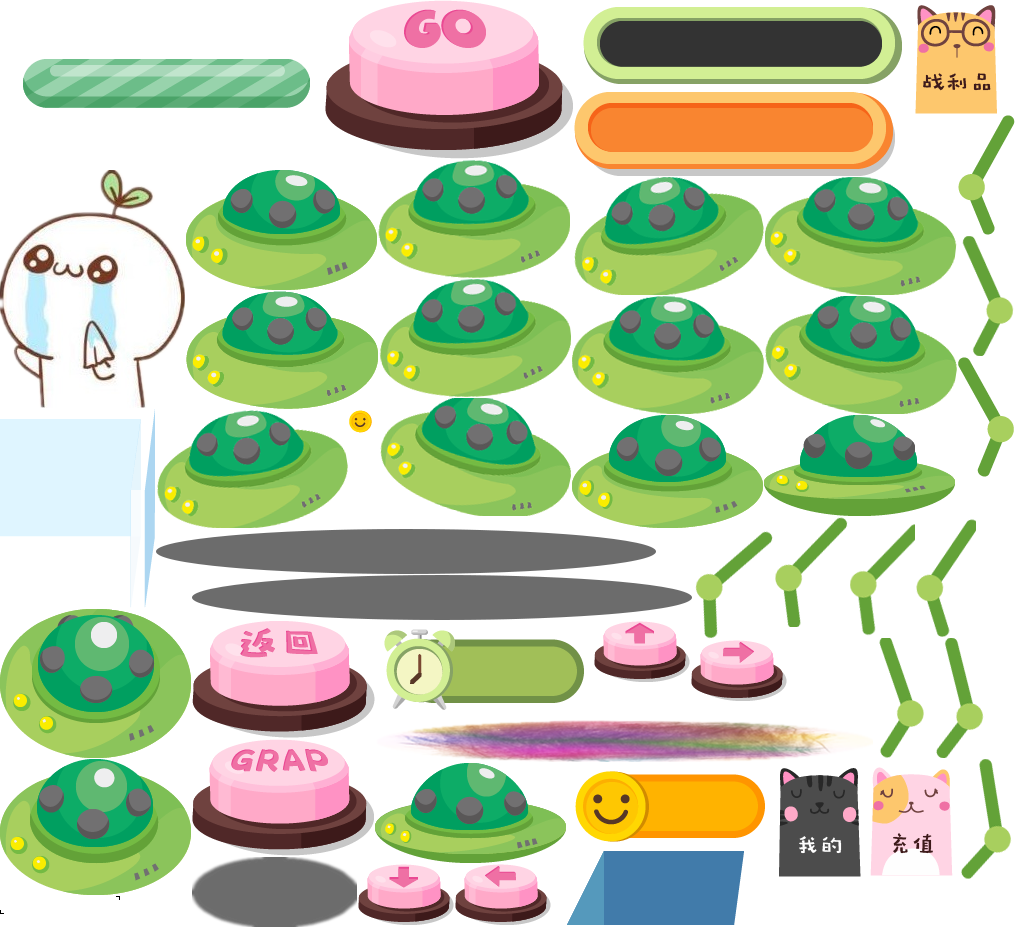
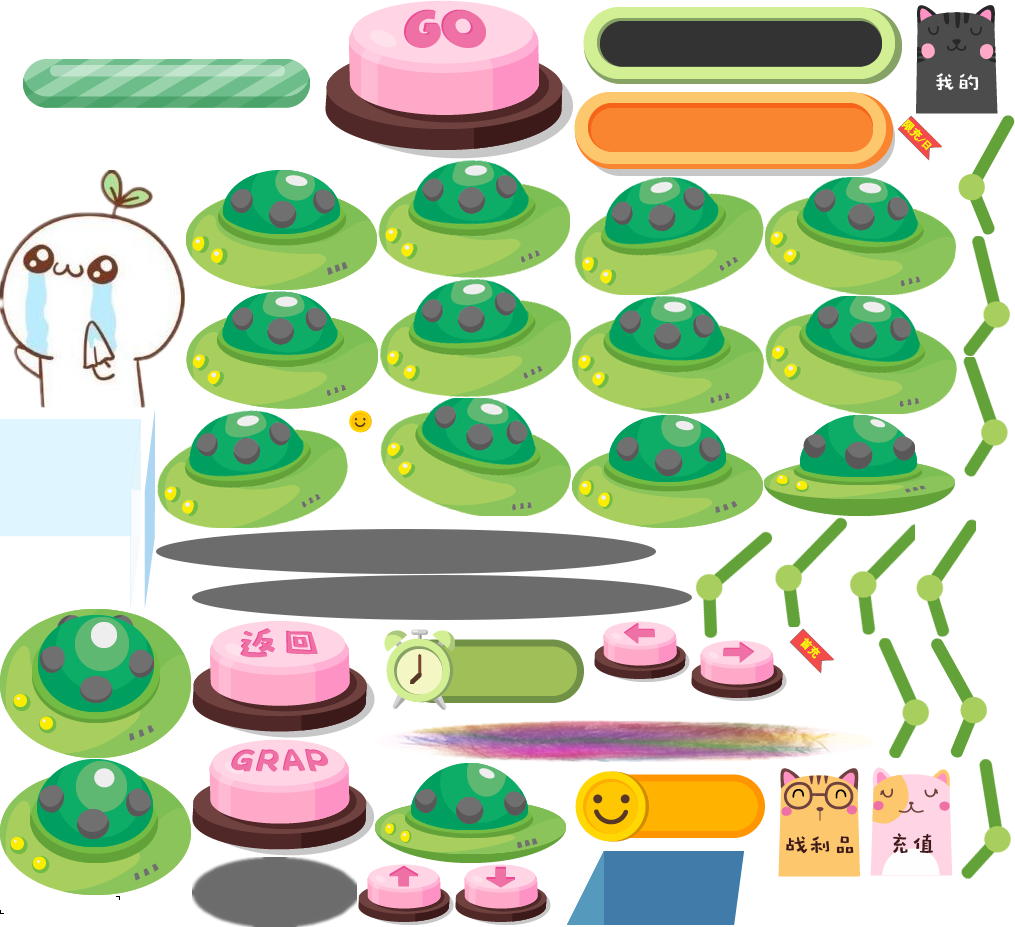
修改游戏页充值

diff --git a/src/main/webapp/toiletCat/game/src/Recharge.js b/src/main/webapp/toiletCat/game/src/Recharge.js
@@ -2,7 +2,11 @@
     function Recharge(){
         Recharge.super(this);
         this.bgcolor = new Laya.Sprite();
-        this.bgcolor.graphics.drawRect(0, 0, 753, 1092, "#FEFE9E");
+        if(setInitData['result']['rechargeData'][0]["userLimitFlag"] < setInitData['result']['rechargeData'][0]["rechargeLimit"] ){
+            this.bgcolor.graphics.drawRect(0, 0, 753, 1092, "#FEFE9E");
+        }else{
+            this.bgcolor.graphics.drawRect(0, 0, 753, 1092, "#DFDDD9");
+        }
         this.addChild(this.bgcolor);
 
         this.back = new Laya.Sprite();
@@ -37,10 +41,16 @@
         this.curCoin2.fontSize = 30;
         this.curCoin2.width = 300;
 		this.curCoin2.wordWrap = true;
-		this.curCoin2.text = setInitData['result']['rechargeData'][0]["showText"];
+		this.curCoin2.text = setInitData['result']['rechargeData'][0]["showText"]+"("+setInitData['result']['rechargeData'][0]["userLimitFlag"]+"/"+setInitData['result']['rechargeData'][0]["rechargeLimit"]+")";
 		this.curCoin2.leading = 5;
         this.curCoin2.pos(120,250);
         this.addChild(this.curCoin2);
+
+        this.limit = new Laya.Sprite();
+        this.limit.loadImage("comp/limit.png");
+        this.limit.pos(260,150);
+        this.limit.scale(2,2);
+        this.addChild(this.limit);
         //充值按钮背景图
         this.bgcolor1 = new Laya.Sprite();
         this.bgcolor1.zOrder=1;
@@ -70,7 +80,10 @@
 		this.rechargeFont1.leading = 5;
         this.rechargeFont1.zOrder = 2;
         this.rechargeFont1.pos(150,320);
-        this.rechargeFont1.on(Laya.Event.CLICK,this,gameRecharge,[setInitData['result']['rechargeData'][0]["money"]]);
+        if(setInitData['result']['rechargeData'][0]["userLimitFlag"] < setInitData['result']['rechargeData'][0]["userLimitFlag"]["rechargeLimit"]){
+            //判断限冲次数
+            this.rechargeFont1.on(Laya.Event.CLICK,this,gameRecharge,[setInitData['result']['rechargeData'][0]["money"]]);
+        }
         this.addChild(this.rechargeFont1);
 
         this.coinImg2 = new Laya.Sprite();//图
@@ -93,10 +106,24 @@
         this.curCoin2.fontSize = 30;
         this.curCoin2.width = 300;
 		this.curCoin2.wordWrap = true;
-		this.curCoin2.text = setInitData['result']['rechargeData'][1]["showText"];;
+        if(setInitData['result']['rechargeData'][1]["userFirstFlag"] == 'is_first'){
+		    this.curCoin2.text = setInitData['result']['rechargeData'][1]["showText"]+setInitData['result']['rechargeData'][1]["giveCoin"];
+        }else{
+            this.curCoin2.text = setInitData['result']['rechargeData'][1]["showText"];
+        }
 		this.curCoin2.leading = 5;
         this.curCoin2.pos(470,250);
         this.addChild(this.curCoin2);
+
+        //判断是否首充
+        if(setInitData['result']['rechargeData'][1]["userFirstFlag"] == 'is_first'){
+            this.first = new Laya.Sprite();
+            this.first.loadImage("comp/first.png");
+            this.first.pos(610,150);
+            this.first.scale(2,2);
+            this.addChild(this.first);
+        }
+
         this.bgcolor1.graphics.drawPath(450, 310, [
             ["moveTo", 20, 0],
             ["lineTo", 200, 0],
